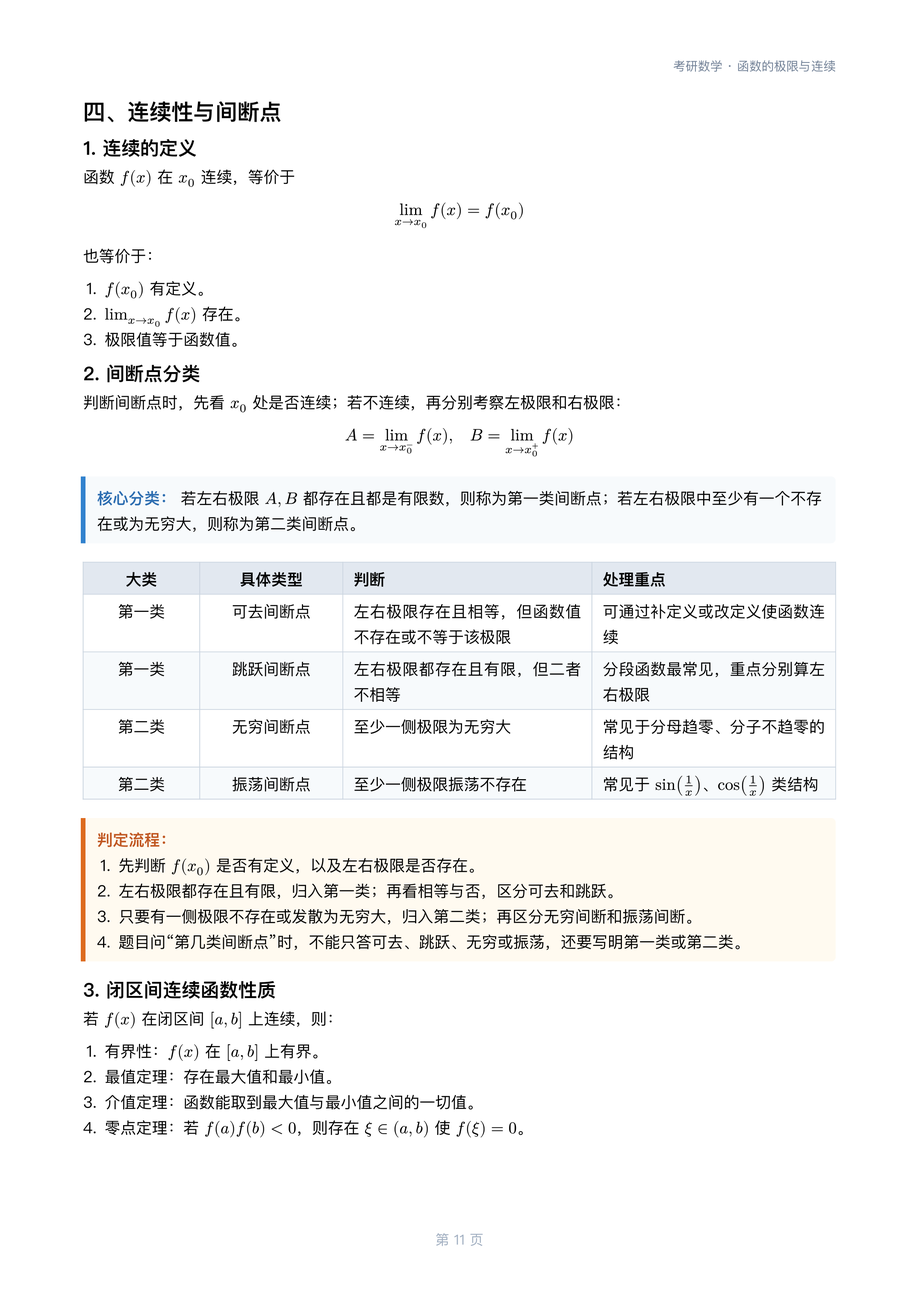
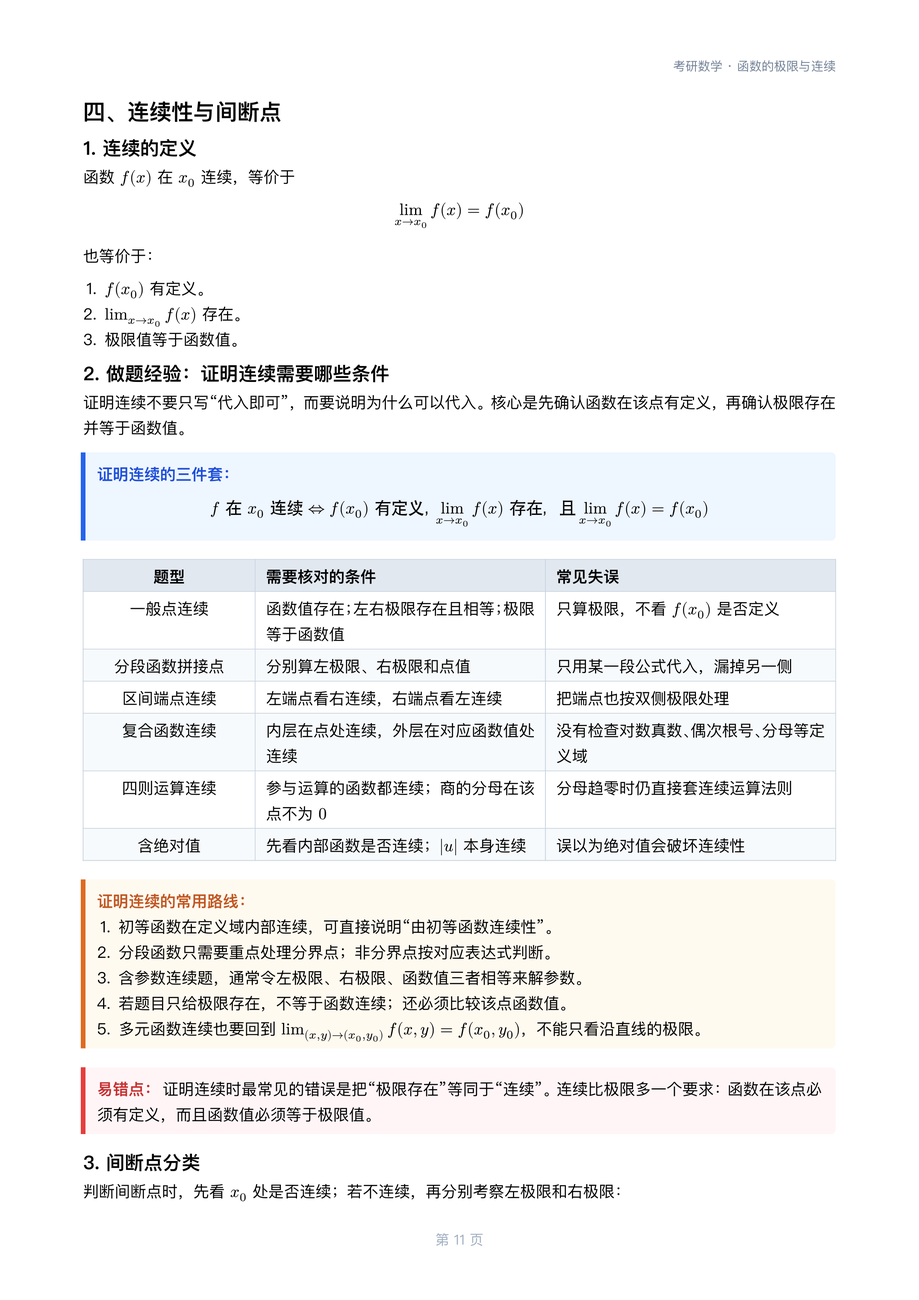
Add continuity and differentiability proof checklists

diff --git a/ebook/data.js b/ebook/data.js
@@ -2,10 +2,10 @@
 window.BOOK_MANIFEST = {
   "title": "考研数学电子书",
   "subtitle": "微积分 · 线性代数 · 概率论",
-  "generatedAt": "2026-08-04T19:19:22+08:00",
+  "generatedAt": "2026-08-04T19:39:55+08:00",
   "stats": {
     "documents": 23,
-    "pages": 264,
+    "pages": 266,
     "renderDpi": 260,
     "pageRenderer": "typst-direct-webp",
     "pageImageExtension": "webp",
@@ -27,7 +27,7 @@ window.BOOK_MANIFEST = {
           "sourcePath": "typst/Limits and Continuity (函数的极限与连续).typ",
           "pageImageBase": "./rendered-pages/doc-d91cdbd85352/page-",
           "pageImageExtension": "webp",
-          "pageCount": 12,
+          "pageCount": 13,
           "sections": [
             {
               "id": "doc-d91cdbd85352-s1",
@@ -56,7 +56,7 @@ window.BOOK_MANIFEST = {
             {
               "id": "doc-d91cdbd85352-s5",
               "title": "五、典型例题",
-              "page": 12,
+              "page": 13,
               "level": 1
             }
           ]
@@ -119,7 +119,7 @@ window.BOOK_MANIFEST = {
           "sourcePath": "typst/Differential Calculus Concepts and Computation (一元函数微分学的概念和计算).typ",
           "pageImageBase": "./rendered-pages/doc-31985d1e27f4/page-",
           "pageImageExtension": "webp",
-          "pageCount": 9,
+          "pageCount": 10,
           "sections": [
             {
               "id": "doc-31985d1e27f4-s1",
@@ -130,31 +130,31 @@ window.BOOK_MANIFEST = {
             {
               "id": "doc-31985d1e27f4-s2",
               "title": "二、微分与局部线性化",
-              "page": 4,
+              "page": 5,
               "level": 1
             },
             {
               "id": "doc-31985d1e27f4-s3",
               "title": "三、基本求导公式",
-              "page": 5,
+              "page": 6,
               "level": 1
             },
             {
               "id": "doc-31985d1e27f4-s4",
               "title": "四、求导法则",
-              "page": 6,
+              "page": 7,
               "level": 1
             },
             {
               "id": "doc-31985d1e27f4-s5",
               "title": "五、高阶导数与常见结构",
-              "page": 8,
+              "page": 9,
               "level": 1
             },
             {
               "id": "doc-31985d1e27f4-s6",
               "title": "六、典型例题",
-              "page": 9,
+              "page": 10,
               "level": 1
             }
           ]
@@ -1304,7 +1304,7 @@ window.BOOK_MANIFEST = {
       "sourcePath": "typst/Limits and Continuity (函数的极限与连续).typ",
       "pageImageBase": "./rendered-pages/doc-d91cdbd85352/page-",
       "pageImageExtension": "webp",
-      "pageCount": 12,
+      "pageCount": 13,
       "sections": [
         {
           "id": "doc-d91cdbd85352-s1",
@@ -1333,7 +1333,7 @@ window.BOOK_MANIFEST = {
         {
           "id": "doc-d91cdbd85352-s5",
           "title": "五、典型例题",
-          "page": 12,
+          "page": 13,
           "level": 1
         }
       ]
@@ -1396,7 +1396,7 @@ window.BOOK_MANIFEST = {
       "sourcePath": "typst/Differential Calculus Concepts and Computation (一元函数微分学的概念和计算).typ",
       "pageImageBase": "./rendered-pages/doc-31985d1e27f4/page-",
       "pageImageExtension": "webp",
-      "pageCount": 9,
+      "pageCount": 10,
       "sections": [
         {
           "id": "doc-31985d1e27f4-s1",
@@ -1407,31 +1407,31 @@ window.BOOK_MANIFEST = {
         {
           "id": "doc-31985d1e27f4-s2",
           "title": "二、微分与局部线性化",
-          "page": 4,
+          "page": 5,
           "level": 1
         },
         {
           "id": "doc-31985d1e27f4-s3",
           "title": "三、基本求导公式",
-          "page": 5,
+          "page": 6,
           "level": 1
         },
         {
           "id": "doc-31985d1e27f4-s4",
           "title": "四、求导法则",
-          "page": 6,
+          "page": 7,
           "level": 1
         },
         {
           "id": "doc-31985d1e27f4-s5",
           "title": "五、高阶导数与常见结构",
-          "page": 8,
+          "page": 9,
           "level": 1
         },
         {
           "id": "doc-31985d1e27f4-s6",
           "title": "六、典型例题",
-          "page": 9,
+          "page": 10,
           "level": 1
         }
       ]
@@ -2594,15 +2594,15 @@ window.SEARCH_INDEX = [
     "category": "微积分",
     "page": 11,
     "heading": "函数的极限与连续",
-    "snippet": "四、连续性与间断点 1. 连续的定义 函数 f x 在 x 0 连续，等价于 lim x- x 0 f x f x 0 也等价于： 1. f x 0 有定义。 2. lim x- x 0 f x 存在。 3. 极限值等于函数值。 2. 间断点分类 判断间断点时，先看 x 0 处是否连续；若不连续，再分别考察左极限和右极限： A lim x...",
-    "text": "Limits and Continuity (函数的极限与连续) Limits and Continuity 函数的极限与连续 微积分 函数的极限与连续 四、连续性与间断点 1. 连续的定义 函数 f x 在 x 0 连续，等价于 lim x- x 0 f x f x 0 也等价于： 1. f x 0 有定义。 2. lim x- x 0 f x 存在。 3. 极限值等于函数值。 2. 间断点分类 判断间断点时，先看 x 0 处是否连续；若不连续，再分别考察左极限和右极限： A lim x- x 0^- f x , quad B lim x- x 0^+ f x 核心分类 若左右极限 A,B 都存在且都是有限数，则称为第一类间断点；若左右极限中至少有一个不存在或为无穷大，则称为第二类间断点。 columns: 1.1fr, 1.35fr, 2.35fr, 2.3fr , align: center, center, left, left , stroke: 0.5pt + rgb , fill: x, y if y 0 rgb else if calc.rem y, 2 0 rgb , 大类 , 具体类型 , 判断 , 处理重点 , 第一类 , 可去间断点 , 左右极限存在且相等，但函数值不存在或不等于该极限 , 可通过补定义或改定义使函数连续 , 第一类 , 跳跃间断点 , 左右极限都存在且有限，但二者不相等 , 分段函数最常见，重点分别算左右极限 , 第二类 , 无穷间断点 , 至少一侧极限为无穷大 , 常见于分母趋零、分子不趋零的结构 , 第二类 , 振荡间断点 , 至少一侧极限振荡不存在 , 常见于 sin 1/x 、 cos 1/x 类结构 , 判定流程 1. 先判断 f x 0 是否有定义，以及左右极限是否存在。\\ 2. 左右极限都存在且有限，归入第一类；再看相等与否，区分可去和跳跃。\\ 3. 只要有一侧极限不存在或发散为无穷大，归入第二类；再区分无穷间断和振荡间断。\\ 4. 题目问“第几类间断点”时，不能只答可去、跳跃、无穷或振荡，还要写明第一类或第二类。 3. 闭区间连续函数性质 若 f x 在闭区间 a,b 上连续，则： 1. 有界性： f x 在 a,b 上有界。 2. 最值定理：存在最大值和最小值。 3. 介值定理：函数能取到最大值与最小值之间的一切值。 4. 零点定理：若 f a f b 0 ，则存在 xi in a,b 使 f xi 0 。"
+    "snippet": "四、连续性与间断点 1. 连续的定义 函数 f x 在 x 0 连续，等价于 lim x- x 0 f x f x 0 也等价于： 1. f x 0 有定义。 2. lim x- x 0 f x 存在。 3. 极限值等于函数值。 2. 做题经验：证明连续需要哪些条件 证明连续不要只写“代入即可”，而要说明为什么可以代入。核心是先确认函数在...",
+    "text": "Limits and Continuity (函数的极限与连续) Limits and Continuity 函数的极限与连续 微积分 函数的极限与连续 四、连续性与间断点 1. 连续的定义 函数 f x 在 x 0 连续，等价于 lim x- x 0 f x f x 0 也等价于： 1. f x 0 有定义。 2. lim x- x 0 f x 存在。 3. 极限值等于函数值。 2. 做题经验：证明连续需要哪些条件 证明连续不要只写“代入即可”，而要说明为什么可以代入。核心是先确认函数在该点有定义，再确认极限存在并等于函数值。 证明连续的三件套 f 在 x 0 连续 f x 0 有定义， lim x- x 0 f x 存在，且 lim x- x 0 f x f x 0 columns: 1.6fr, 2.7fr, 2.7fr , align: center, left, left , stroke: 0.5pt + rgb , fill: x, y if y 0 rgb else if calc.rem y, 2 0 rgb , 题型 , 需要核对的条件 , 常见失误 , 一般点连续 , 函数值存在；左右极限存在且相等；极限等于函数值 , 只算极限，不看 f x 0 是否定义 , 分段函数拼接点 , 分别算左极限、右极限和点值 , 只用某一段公式代入，漏掉另一侧 , 区间端点连续 , 左端点看右连续，右端点看左连续 , 把端点也按双侧极限处理 , 复合函数连续 , 内层在点处连续，外层在对应函数值处连续 , 没有检查对数真数、偶次根号、分母等定义域 , 四则运算连续 , 参与运算的函数都连续；商的分母在该点不为 0 , 分母趋零时仍直接套连续运算法则 , 含绝对值 , 先看内部函数是否连续； abs u 本身连续 , 误以为绝对值会破坏连续性 , 证明连续的常用路线 1. 初等函数在定义域内部连续，可直接说明“由初等函数连续性”。\\ 2. 分段函数只需要重点处理分界点；非分界点按对应表达式判断。\\ 3. 含参数连续题，通常令左极限、右极限、函数值三者相等来解参数。\\ 4. 若题目只给极限存在，不等于函数连续；还必须比较该点函数值。\\ 5. 多元函数连续也要回到 lim x,y - x 0,y 0 f x,y f x 0,y 0 ，不能只看沿直线的极限。 证明连续时最常见的错误是把“极限存在”等同于“连续”。连续比极限多一个要求：函数在该点必须有定义，而且函数值必须等于极限值。 3. 间断点分类 判断间断点时，先看 x 0 处是否连续；若不连续，再分别考察左极限和右极限： A lim x- x 0^- f x , quad B lim x- x 0^+ f x 核心分类 若左右极限 A,B 都存在且都是有限数，则称为第一类间断点；若左右极限中至少有一个不存在或为无穷大，则称为第二类间断点。 columns: 1.1fr, 1.35fr, 2.35fr, 2.3fr , align: center, center, left, left , stroke: 0.5pt + rgb , fill: x, y if y 0 rgb else if calc.rem y, 2 0 rgb , 大类 , 具体类型 , 判断 , 处理重点 , 第一类 , 可去间断点 , 左右极限存在且相等，但函数值不存在或不等于该极限 , 可通过补定义或改定义使函数连续 , 第一类 , 跳跃间断点 , 左右极限都存在且有限，但二者不相等 , 分段函数最常见，重点分别算左右极限 , 第二类 , 无穷间断点 , 至少一侧极限为无穷大 , 常见于分母趋零、分子不趋零的结构 , 第二类 , 振荡间断点 , 至少一侧极限振荡不存在 , 常见于 sin 1/x 、 cos 1/x 类结构 , 判定流程 1. 先判断 f x 0 是否有定义，以及左右极限是否存在。\\ 2. 左右极限都存在且有限，归入第一类；再看相等与否，区分可去和跳跃。\\ 3. 只要有一侧极限不存在或发散为无穷大，归入第二类；再区分无穷间断和振荡间断。\\ 4. 题目问“第几类间断点”时，不能只答可去、跳跃、无穷或振荡，还要写明第一类或第二类。 4. 闭区间连续函数性质 若 f x 在闭区间 a,b 上连续，则： 1. 有界性： f x 在 a,b 上有界。 2. 最值定理：存在最大值和最小值。 3. 介值定理：函数能取到最大值与最小值之间的一切值。 4. 零点定理：若 f a f b 0 ，则存在 xi in a,b 使 f xi 0 。"
   },
   {
-    "id": "doc-d91cdbd85352-p12",
+    "id": "doc-d91cdbd85352-p13",
     "docId": "doc-d91cdbd85352",
     "title": "Limits and Continuity (函数的极限与连续)",
     "category": "微积分",
-    "page": 12,
+    "page": 13,
     "heading": "函数的极限与连续",
     "snippet": "五、典型例题 例题 1：有理化求极限 题目 求 lim x- 0 sqrt 1+x -sqrt 1-x /x 。 有理化： sqrt 1+x -sqrt 1-x /x 1+x - 1-x / x sqrt 1+x +sqrt 1-x 2/ sqrt 1+x +sqrt 1-x 所以 lim x- 0 sqrt 1+x -sqrt 1-x ...",
     "text": "Limits and Continuity (函数的极限与连续) Limits and Continuity 函数的极限与连续 微积分 函数的极限与连续 五、典型例题 例题 1：有理化求极限 题目 求 lim x- 0 sqrt 1+x -sqrt 1-x /x 。 有理化： sqrt 1+x -sqrt 1-x /x 1+x - 1-x / x sqrt 1+x +sqrt 1-x 2/ sqrt 1+x +sqrt 1-x 所以 lim x- 0 sqrt 1+x -sqrt 1-x /x 2/ 1+1 1 例题 2：连续性确定参数 题目 设 f x cases e^ a x -1 /x, x ! 0 , 2, x 0 求使 f x 在 x 0 连续的 a 。 连续要求 lim x- 0 e^ a x -1 /x 2 由 e^ a x -1 tilde.eq a x ，得极限为 a 。因此 a 2 例题 3：零点定理 题目 证明方程 x^3+x-1 0 在 0,1 内至少有一个实根。 令 f x x^3+x-1 ，则 f x 在 0,1 上连续，且 f 0 -1 0, quad f 1 1 0 由零点定理，存在 xi in 0,1 ，使 f xi 0 故方程在 0,1 内至少有一个实根。"
@@ -2675,17 +2675,7 @@ window.SEARCH_INDEX = [
     "page": 2,
     "heading": "一元函数微分学的概念和计算",
     "snippet": "一、导数的概念 1. 导数定义 函数 y f x 在点 x 0 的导数定义为 f' x 0 lim Delta x- 0 f x 0+Delta x -f x 0 / Delta x 若该极限存在，则称 f x 在 x 0 可导。导数表示函数图像在该点切线斜率，也表示函数值相对于自变量的瞬时变化率。 也可写成 f' x 0 lim x- ...",
-    "text": "Differential Calculus Concepts and Computation (一元函数微分学的概念和计算) Differential Calculus Concepts and Computation 一元函数微分学的概念和计算 微积分 一元函数微分学的概念和计算 一、导数的概念 1. 导数定义 函数 y f x 在点 x 0 的导数定义为 f' x 0 lim Delta x- 0 f x 0+Delta x -f x 0 / Delta x 若该极限存在，则称 f x 在 x 0 可导。导数表示函数图像在该点切线斜率，也表示函数值相对于自变量的瞬时变化率。 也可写成 f' x 0 lim x- x 0 f x -f x 0 / x-x 0 2. 左导数与右导数 函数在 x 0 可导，当且仅当左导数和右导数都存在且相等： f' - x 0 f' + x 0 分段函数、绝对值函数和端点处的导数问题，必须分别考察左右导数。 可导一定连续，连续不一定可导。例如 f x abs x 在 x 0 连续但不可导，因为左右导数分别为 -1 与 1 。 3. 连续、可导、可微的关系 一元函数中，“可导”和“可微”本质等价。若 f' x 0 存在，则函数增量可以写成 Delta y f x 0+h -f x 0 f' x 0 h+o h 因此 f 在 x 0 可微，且微分为 d y f' x 0 d x 反过来，若存在常数 A ，使 Delta y A h+o h 则 f x 0+h -f x 0 /h A+o h /h - A 所以 f' x 0 A ，函数在 x 0 可导。 一元关系链 可导 可微 连续 反向一般不成立：连续不能推出可导；不可导也可能仍连续。 columns: 1.8fr, 2.3fr, 2.7fr , align: center, left, left , stroke: 0.5pt + rgb , fill: x, y if y 0 rgb else if calc.rem y, 2 0 rgb , 已知条件 , 能推出什么 , 不能推出什么或反例 , f 在 x 0 可导 , f 在 x 0 连续且可微 , 不能推出 f' 在 x 0 连续 , f 在 x 0 可微 , f 在 x 0 可导且连续 , 一元情况下与可导等价 , f 在 x 0 连续 , 函数值与极限一致 , 不能推出可导，如 f x abs x 在 0 处 , f 在 x 0 不连续 , 一定不可导、不可微 , 因为可导必连续 , 做题推导顺序 若题目要求证明可导，优先回到导数定义或左右导数；若题目要求证明可微，一元题可直接证明可导；若要否定可导，常找左右导数不等、差商极限不存在或尖点；若已知不连续，可直接否定可导和可微。 4. 绝对值对连续性与可导性的影响 绝对值函数 abs u 本身连续，所以若 f 在 x 0 连续，则 abs f 在 x 0 一定连续： f x - f x 0 abs f x - abs f x 0 但绝对值可能制造尖点，关键看 f x 0 是否为零。 columns: 2fr, 2.6fr, 2.8fr , align: center, left, left , stroke: 0.5pt + rgb , fill: x, y if y 0 rgb else if calc.rem y, 2 0 rgb , 条件 , abs f 的结论 , 原因 , f 连续 , abs f 连续 , 连续函数复合连续函数仍连续 , f 可导 , f x 0 0 , abs f ' x 0 f' x 0 , x 0 附近 abs f f , f 可导 , f x 0 0 , abs f ' x 0 -f' x 0 , x 0 附近 abs f -f , f 可导 , f x 0 0, f' x 0 ! 0 , abs f 不可导 , 左右差商符号相反，形成尖点 , f 可导 , f x 0 0, f' x 0 0 , abs f 可导且导数为 0 , 因为 f x 0+h o h , 合并写成常用公式： abs f x ' f' x quad f x 0 abs f x ' -f' x quad f x 0 在 f x 0 0 的点不能直接套公式，应单独用定义： abs f ' x 0 lim h- 0 abs f x 0+h -abs f x 0 /h 看到绝对值题，先分三步：第一看绝对值内部在该点是否为 0 ；第二若不为 0 ，可按正负号去绝对值；第三若为 0 ，必须查左右导数或差商极限。最常见错误是把 abs f 直接当作 f 求导，漏掉零点处的不可导判断。"
-  },
-  {
-    "id": "doc-31985d1e27f4-p4",
-    "docId": "doc-31985d1e27f4",
-    "title": "Differential Calculus Concepts and Computation (一元函数微分学的概念和计算)",
-    "category": "微积分",
-    "page": 4,
-    "heading": "一元函数微分学的概念和计算",
-    "snippet": "二、微分与局部线性化 1. 微分定义 若函数在 x 处可导，则 d y f' x med d x 称为函数的微分。它是函数增量 Delta y f x+Delta x -f x 的线性主部： Delta y f' x Delta x+o Delta x 2. 近似计算 当 Delta x 很小时， f x+Delta x approx f...",
-    "text": "Differential Calculus Concepts and Computation (一元函数微分学的概念和计算) Differential Calculus Concepts and Computation 一元函数微分学的概念和计算 微积分 一元函数微分学的概念和计算 二、微分与局部线性化 1. 微分定义 若函数在 x 处可导，则 d y f' x med d x 称为函数的微分。它是函数增量 Delta y f x+Delta x -f x 的线性主部： Delta y f' x Delta x+o Delta x 2. 近似计算 当 Delta x 很小时， f x+Delta x approx f x +f' x Delta x 这就是用切线近似曲线。常用于根式、指数和对数的近似估算。"
+    "text": "Differential Calculus Concepts and Computation (一元函数微分学的概念和计算) Differential Calculus Concepts and Computation 一元函数微分学的概念和计算 微积分 一元函数微分学的概念和计算 一、导数的概念 1. 导数定义 函数 y f x 在点 x 0 的导数定义为 f' x 0 lim Delta x- 0 f x 0+Delta x -f x 0 / Delta x 若该极限存在，则称 f x 在 x 0 可导。导数表示函数图像在该点切线斜率，也表示函数值相对于自变量的瞬时变化率。 也可写成 f' x 0 lim x- x 0 f x -f x 0 / x-x 0 2. 左导数与右导数 函数在 x 0 可导，当且仅当左导数和右导数都存在且相等： f' - x 0 f' + x 0 分段函数、绝对值函数和端点处的导数问题，必须分别考察左右导数。 可导一定连续，连续不一定可导。例如 f x abs x 在 x 0 连续但不可导，因为左右导数分别为 -1 与 1 。 3. 连续、可导、可微的关系 一元函数中，“可导”和“可微”本质等价。若 f' x 0 存在，则函数增量可以写成 Delta y f x 0+h -f x 0 f' x 0 h+o h 因此 f 在 x 0 可微，且微分为 d y f' x 0 d x 反过来，若存在常数 A ，使 Delta y A h+o h 则 f x 0+h -f x 0 /h A+o h /h - A 所以 f' x 0 A ，函数在 x 0 可导。 一元关系链 可导 可微 连续 反向一般不成立：连续不能推出可导；不可导也可能仍连续。 columns: 1.8fr, 2.3fr, 2.7fr , align: center, left, left , stroke: 0.5pt + rgb , fill: x, y if y 0 rgb else if calc.rem y, 2 0 rgb , 已知条件 , 能推出什么 , 不能推出什么或反例 , f 在 x 0 可导 , f 在 x 0 连续且可微 , 不能推出 f' 在 x 0 连续 , f 在 x 0 可微 , f 在 x 0 可导且连续 , 一元情况下与可导等价 , f 在 x 0 连续 , 函数值与极限一致 , 不能推出可导，如 f x abs x 在 0 处 , f 在 x 0 不连续 , 一定不可导、不可微 , 因为可导必连续 , 做题推导顺序 若题目要求证明可导，优先回到导数定义或左右导数；若题目要求证明可微，一元题可直接证明可导；若要否定可导，常找左右导数不等、差商极限不存在或尖点；若已知不连续，可直接否定可导和可微。 4. 做题经验：证明可导需要哪些条件 证明可导的本质是证明差商极限存在。做题时通常先用连续性排除明显不可导，再根据函数结构选择导数定义、左右导数或求导法则。 证明可导的核心条件 f 在 x 0 可导 lim h- 0 f x 0+h -f x 0 /h 存在且为有限值 等价地： f' - x 0 f' + x 0 且二者有限 columns: 1.65fr, 2.75fr, 2.6fr , align: center, left, left , stroke: 0.5pt + rgb , fill: x, y if y 0 rgb else if calc.rem y, 2 0 rgb , 题型 , 证明可导要核对的条件 , 常见失误 , 一般点可导 , 差商极限存在且有限 , 只会套公式，忘记特殊点要用定义 , 分段函数拼接点 , 先连续；再算左导数和右导数，并令二者相等 , 只令左右极限相等，漏掉导数相等 , 含绝对值或尖点 , 先看绝对值内部在该点是否为 0 ；再查左右差商 , 直接去绝对值或直接套链式法则 , 复合函数 , 内层在点处可导；外层在内层函数值处可导 , 外层在对应点不可导仍套链式法则 , 四则运算 , 参与运算的函数都可导；商的分母在该点不为 0 , 分母为 0 时仍套商法则 , 反函数求导 , 原函数单调、可导，且 f' x 0 ! 0 , 忽略导数不能为 0 的条件 , 证明可导的实战顺序 1. 先看函数在 x 0 是否连续；若不连续，立即判定不可导。\\ 2. 若是普通初等函数且在定义域内部，可直接用求导公式。\\ 3. 若是分段点、绝对值零点、端点或根号分母等特殊点，回到导数定义。\\ 4. 分段拼接点常先由连续性求参数，再由左导数等于右导数继续求参数。\\ 5. 端点通常只能谈单侧导数；若题目问普通可导，默认需要双侧邻域。 连续是可导的必要条件，不是充分条件。证明可导时，“函数连续”只能作为第一关；真正决定可导的是差商极限是否存在，尤其是左右导数是否相等。 5. 绝对值对连续性与可导性的影响 绝对值函数 abs u 本身连续，所以若 f 在 x 0 连续，则 abs f 在 x 0 一定连续： f x - f x 0 abs f x - abs f x 0 但绝对值可能制造尖点，关键看 f x 0 是否为零。 columns: 2fr, 2.6fr, 2.8fr , align: center, left, left , stroke: 0.5pt + rgb , fill: x, y if y 0 rgb else if calc.rem y, 2 0 rgb , 条件 , abs f 的结论 , 原因 , f 连续 , abs f 连续 , 连续函数复合连续函数仍连续 , f 可导 , f x 0 0 , abs f ' x 0 f' x 0 , x 0 附近 abs f f , f 可导 , f x 0 0 , abs f ' x 0 -f' x 0 , x 0 附近 abs f -f , f 可导 , f x 0 0, f' x 0 ! 0 , abs f 不可导 , 左右差商符号相反，形成尖点 , f 可导 , f x 0 0, f' x 0 0 , abs f 可导且导数为 0 , 因为 f x 0+h o h , 合并写成常用公式： abs f x ' f' x quad f x 0 abs f x ' -f' x quad f x 0 在 f x 0 0 的点不能直接套公式，应单独用定义： abs f ' x 0 lim h- 0 abs f x 0+h -abs f x 0 /h 看到绝对值题，先分三步：第一看绝对值内部在该点是否为 0 ；第二若不为 0 ，可按正负号去绝对值；第三若为 0 ，必须查左右导数或差商极限。最常见错误是把 abs f 直接当作 f 求导，漏掉零点处的不可导判断。"
   },
   {
     "id": "doc-31985d1e27f4-p5",
@@ -2694,8 +2684,8 @@ window.SEARCH_INDEX = [
     "category": "微积分",
     "page": 5,
     "heading": "一元函数微分学的概念和计算",
-    "snippet": "三、基本求导公式 columns: 1.7fr, 1.9fr, 2.6fr , align: center, center, left , stroke: 0.5pt + rgb , fill: x, y if y 0 rgb else if calc.rem y, 2 0 rgb , 函数 , 导数 , 说明 , C , 0 , 常数导...",
-    "text": "Differential Calculus Concepts and Computation (一元函数微分学的概念和计算) Differential Calculus Concepts and Computation 一元函数微分学的概念和计算 微积分 一元函数微分学的概念和计算 三、基本求导公式 columns: 1.7fr, 1.9fr, 2.6fr , align: center, center, left , stroke: 0.5pt + rgb , fill: x, y if y 0 rgb else if calc.rem y, 2 0 rgb , 函数 , 导数 , 说明 , C , 0 , 常数导数为零 , x^alpha , alpha x^ alpha-1 , 幂函数公式 , e^x , e^x , 自然指数函数 , a^x , a^x ln a , a 0, a ! 1 , ln x , 1/x , x 0 , sin x , cos x , 三角函数 , cos x , -sin x , 注意负号 , tan x , sec^2 x , 也可写 1/cos^2 x , arctan x , 1/ 1+x^2 , 反三角函数常用 ,"
+    "snippet": "二、微分与局部线性化 1. 微分定义 若函数在 x 处可导，则 d y f' x med d x 称为函数的微分。它是函数增量 Delta y f x+Delta x -f x 的线性主部： Delta y f' x Delta x+o Delta x 2. 近似计算 当 Delta x 很小时， f x+Delta x approx f...",
+    "text": "Differential Calculus Concepts and Computation (一元函数微分学的概念和计算) Differential Calculus Concepts and Computation 一元函数微分学的概念和计算 微积分 一元函数微分学的概念和计算 二、微分与局部线性化 1. 微分定义 若函数在 x 处可导，则 d y f' x med d x 称为函数的微分。它是函数增量 Delta y f x+Delta x -f x 的线性主部： Delta y f' x Delta x+o Delta x 2. 近似计算 当 Delta x 很小时， f x+Delta x approx f x +f' x Delta x 这就是用切线近似曲线。常用于根式、指数和对数的近似估算。"
   },
   {
     "id": "doc-31985d1e27f4-p6",
@@ -2704,18 +2694,18 @@ window.SEARCH_INDEX = [
     "category": "微积分",
     "page": 6,
     "heading": "一元函数微分学的概念和计算",
-    "snippet": "四、求导法则 1. 四则运算 若 u u x ， v v x 可导，则 u+v ' u'+v' u v ' u'v+u v' u/v ' u'v-u v' /v^2 quad v ! 0 2. 复合函数求导 若 y f u ， u g x ，则 d y/d x d y / d u dot d u / d x f' g x g' x 链式法...",
-    "text": "Differential Calculus Concepts and Computation (一元函数微分学的概念和计算) Differential Calculus Concepts and Computation 一元函数微分学的概念和计算 微积分 一元函数微分学的概念和计算 四、求导法则 1. 四则运算 若 u u x ， v v x 可导，则 u+v ' u'+v' u v ' u'v+u v' u/v ' u'v-u v' /v^2 quad v ! 0 2. 复合函数求导 若 y f u ， u g x ，则 d y/d x d y / d u dot d u / d x f' g x g' x 链式法则的关键是从外到内逐层求导，每层都不能漏。 3. 反函数求导 若 y f x 单调可导，且 f' x ! 0 ，其反函数 x phi y 满足 d x / d y 1/ d y / d x 常用于反三角函数和由方程确定的反函数。 4. 隐函数求导 若 F x,y 0 确定 y y x ，则两边对 x 求导，把 y 看成 x 的函数： F x+F y y' 0 若 F y ! 0 ，则 y' -F x/F y 5. 参数方程求导 若 x x t , quad y y t 且 x' t ! 0 ，则 d y / d x d y / d t / d x / d t y' t /x' t 二阶导数为 d^2 y / d x^2 d / d t d y / d x / d x/d t 6. 对数求导法 当函数含有乘积、商、幂指函数时，常先取对数再求导。例如 y u x ^ v x 两边取对数： ln y v ln u 再求导： y'/y v' ln u+v u'/u"
+    "snippet": "三、基本求导公式 columns: 1.7fr, 1.9fr, 2.6fr , align: center, center, left , stroke: 0.5pt + rgb , fill: x, y if y 0 rgb else if calc.rem y, 2 0 rgb , 函数 , 导数 , 说明 , C , 0 , 常数导...",
+    "text": "Differential Calculus Concepts and Computation (一元函数微分学的概念和计算) Differential Calculus Concepts and Computation 一元函数微分学的概念和计算 微积分 一元函数微分学的概念和计算 三、基本求导公式 columns: 1.7fr, 1.9fr, 2.6fr , align: center, center, left , stroke: 0.5pt + rgb , fill: x, y if y 0 rgb else if calc.rem y, 2 0 rgb , 函数 , 导数 , 说明 , C , 0 , 常数导数为零 , x^alpha , alpha x^ alpha-1 , 幂函数公式 , e^x , e^x , 自然指数函数 , a^x , a^x ln a , a 0, a ! 1 , ln x , 1/x , x 0 , sin x , cos x , 三角函数 , cos x , -sin x , 注意负号 , tan x , sec^2 x , 也可写 1/cos^2 x , arctan x , 1/ 1+x^2 , 反三角函数常用 ,"
   },
   {
-    "id": "doc-31985d1e27f4-p8",
+    "id": "doc-31985d1e27f4-p7",
     "docId": "doc-31985d1e27f4",
     "title": "Differential Calculus Concepts and Computation (一元函数微分学的概念和计算)",
     "category": "微积分",
-    "page": 8,
+    "page": 7,
     "heading": "一元函数微分学的概念和计算",
-    "snippet": "五、高阶导数与常见结构 1. 高阶导数 若 f' x 仍可导，则称其导数为二阶导数： f'' x f' x ' 依次可定义 n 阶导数 f^ n x 。 2. 常见高阶导数 columns: 2fr, 2.4fr , align: center, left , stroke: 0.5pt + rgb , fill: x, y if y 0...",
-    "text": "Differential Calculus Concepts and Computation (一元函数微分学的概念和计算) Differential Calculus Concepts and Computation 一元函数微分学的概念和计算 微积分 一元函数微分学的概念和计算 五、高阶导数与常见结构 1. 高阶导数 若 f' x 仍可导，则称其导数为二阶导数： f'' x f' x ' 依次可定义 n 阶导数 f^ n x 。 2. 常见高阶导数 columns: 2fr, 2.4fr , align: center, left , stroke: 0.5pt + rgb , fill: x, y if y 0 rgb else if calc.rem y, 2 0 rgb , 函数 , n 阶导数 , e^ a x , a^n e^ a x , sin x , 按 sin x, cos x, -sin x, -cos x 循环 , ln 1+x , -1 ^ n-1 n-1 !/ 1+x ^n , 1/ 1-x , n!/ 1-x ^ n+1 ,"
+    "snippet": "四、求导法则 1. 四则运算 若 u u x ， v v x 可导，则 u+v ' u'+v' u v ' u'v+u v' u/v ' u'v-u v' /v^2 quad v ! 0 2. 复合函数求导 若 y f u ， u g x ，则 d y/d x d y / d u dot d u / d x f' g x g' x 链式法...",
+    "text": "Differential Calculus Concepts and Computation (一元函数微分学的概念和计算) Differential Calculus Concepts and Computation 一元函数微分学的概念和计算 微积分 一元函数微分学的概念和计算 四、求导法则 1. 四则运算 若 u u x ， v v x 可导，则 u+v ' u'+v' u v ' u'v+u v' u/v ' u'v-u v' /v^2 quad v ! 0 2. 复合函数求导 若 y f u ， u g x ，则 d y/d x d y / d u dot d u / d x f' g x g' x 链式法则的关键是从外到内逐层求导，每层都不能漏。 3. 反函数求导 若 y f x 单调可导，且 f' x ! 0 ，其反函数 x phi y 满足 d x / d y 1/ d y / d x 常用于反三角函数和由方程确定的反函数。 4. 隐函数求导 若 F x,y 0 确定 y y x ，则两边对 x 求导，把 y 看成 x 的函数： F x+F y y' 0 若 F y ! 0 ，则 y' -F x/F y 5. 参数方程求导 若 x x t , quad y y t 且 x' t ! 0 ，则 d y / d x d y / d t / d x / d t y' t /x' t 二阶导数为 d^2 y / d x^2 d / d t d y / d x / d x/d t 6. 对数求导法 当函数含有乘积、商、幂指函数时，常先取对数再求导。例如 y u x ^ v x 两边取对数： ln y v ln u 再求导： y'/y v' ln u+v u'/u"
   },
   {
     "id": "doc-31985d1e27f4-p9",
@@ -2723,6 +2713,16 @@ window.SEARCH_INDEX = [
     "title": "Differential Calculus Concepts and Computation (一元函数微分学的概念和计算)",
     "category": "微积分",
     "page": 9,
+    "heading": "一元函数微分学的概念和计算",
+    "snippet": "五、高阶导数与常见结构 1. 高阶导数 若 f' x 仍可导，则称其导数为二阶导数： f'' x f' x ' 依次可定义 n 阶导数 f^ n x 。 2. 常见高阶导数 columns: 2fr, 2.4fr , align: center, left , stroke: 0.5pt + rgb , fill: x, y if y 0...",
+    "text": "Differential Calculus Concepts and Computation (一元函数微分学的概念和计算) Differential Calculus Concepts and Computation 一元函数微分学的概念和计算 微积分 一元函数微分学的概念和计算 五、高阶导数与常见结构 1. 高阶导数 若 f' x 仍可导，则称其导数为二阶导数： f'' x f' x ' 依次可定义 n 阶导数 f^ n x 。 2. 常见高阶导数 columns: 2fr, 2.4fr , align: center, left , stroke: 0.5pt + rgb , fill: x, y if y 0 rgb else if calc.rem y, 2 0 rgb , 函数 , n 阶导数 , e^ a x , a^n e^ a x , sin x , 按 sin x, cos x, -sin x, -cos x 循环 , ln 1+x , -1 ^ n-1 n-1 !/ 1+x ^n , 1/ 1-x , n!/ 1-x ^ n+1 ,"
+  },
+  {
+    "id": "doc-31985d1e27f4-p10",
+    "docId": "doc-31985d1e27f4",
+    "title": "Differential Calculus Concepts and Computation (一元函数微分学的概念和计算)",
+    "category": "微积分",
+    "page": 10,
     "heading": "一元函数微分学的概念和计算",
     "snippet": "六、典型例题 例题 1：导数定义 题目 设 f x x^2 ，用定义求 f' x 0 。 由定义 f' x 0 lim Delta x- 0 x 0+Delta x ^2-x 0^2 / Delta x lim Delta x- 0 2 x 0 Delta x+ Delta x ^2 / Delta x lim Delta x- 0 2 ...",
     "text": "Differential Calculus Concepts and Computation (一元函数微分学的概念和计算) Differential Calculus Concepts and Computation 一元函数微分学的概念和计算 微积分 一元函数微分学的概念和计算 六、典型例题 例题 1：导数定义 题目 设 f x x^2 ，用定义求 f' x 0 。 由定义 f' x 0 lim Delta x- 0 x 0+Delta x ^2-x 0^2 / Delta x lim Delta x- 0 2 x 0 Delta x+ Delta x ^2 / Delta x lim Delta x- 0 2 x 0+Delta x 2 x 0 例题 2：隐函数求导 题目 由方程 x^2+x y+y^2 1 确定 y y x ，求 y' 。 两边对 x 求导： 2 x+ x y '+2 y y' 0 其中 x y ' y+x y' 所以 2 x+y+x y'+2 y y' 0 整理得 x+2 y y' - 2 x+y 因此 y' - 2 x+y / x+2 y 例题 3：参数方程求导 题目 设 x t^2+1 ， y t^3-t ，求 d y/d x 。 有 d x/d t 2 t, quad d y/d t 3 t^2-1 当 t ! 0 时， d y/d x 3 t^2-1 / 2 t"

diff --git a/ebook/sw.js b/ebook/sw.js
@@ -1,4 +1,4 @@
-const CACHE_VERSION = "20260804-differentiability-absolute";
+const CACHE_VERSION = "20260804-proof-continuity-differentiability";
 const SHELL_CACHE = `kaoyan-math-ebook-shell-${CACHE_VERSION}`;
 const PAGE_CACHE = `kaoyan-math-ebook-pages-${CACHE_VERSION}`;
 const ACTIVE_CACHES = new Set([SHELL_CACHE, PAGE_CACHE]);
@@ -6,9 +6,9 @@ const ACTIVE_CACHES = new Set([SHELL_CACHE, PAGE_CACHE]);
 const SHELL_ASSETS = [
   "./",
   "./index.html",
-  "./style.css?v=20260804-differentiability-absolute",
-  "./data.js?v=20260804-differentiability-absolute",
-  "./app.js?v=20260804-differentiability-absolute",
+  "./style.css?v=20260804-proof-continuity-differentiability",
+  "./data.js?v=20260804-proof-continuity-differentiability",
+  "./app.js?v=20260804-proof-continuity-differentiability",
 ];
 
 self.addEventListener("install", (event) => {

diff --git a/ebook/index.html b/ebook/index.html
@@ -4,7 +4,7 @@
     <meta charset="utf-8" />
     <meta name="viewport" content="width=device-width, initial-scale=1" />
     <title>考研数学电子书</title>
-    <link rel="stylesheet" href="./style.css?v=20260804-differentiability-absolute" />
+    <link rel="stylesheet" href="./style.css?v=20260804-proof-continuity-differentiability" />
   </head>
   <body>
     <div class="app-shell">
@@ -54,7 +54,7 @@
       </main>
     </div>
 
-    <script src="./data.js?v=20260804-differentiability-absolute"></script>
-    <script src="./app.js?v=20260804-differentiability-absolute" defer></script>
+    <script src="./data.js?v=20260804-proof-continuity-differentiability"></script>
+    <script src="./app.js?v=20260804-proof-continuity-differentiability" defer></script>
   </body>
 </html>

diff --git a/ebook/app.js b/ebook/app.js
@@ -10,7 +10,7 @@ const PAGE_OBSERVER_MARGIN = "900px 0px";
 const BACKGROUND_PRELOAD_START_DELAY_MS = 1800;
 const BACKGROUND_PRELOAD_BATCH_DELAY_MS = 320;
 const BACKGROUND_PRELOAD_BATCH_SIZE = 2;
-const APP_VERSION = "20260804-differentiability-absolute";
+const APP_VERSION = "20260804-proof-continuity-differentiability";
 const SERVICE_WORKER_FILE = "./sw.js";
 const BOOK_RENDER_ID = "__full_book__";
 
